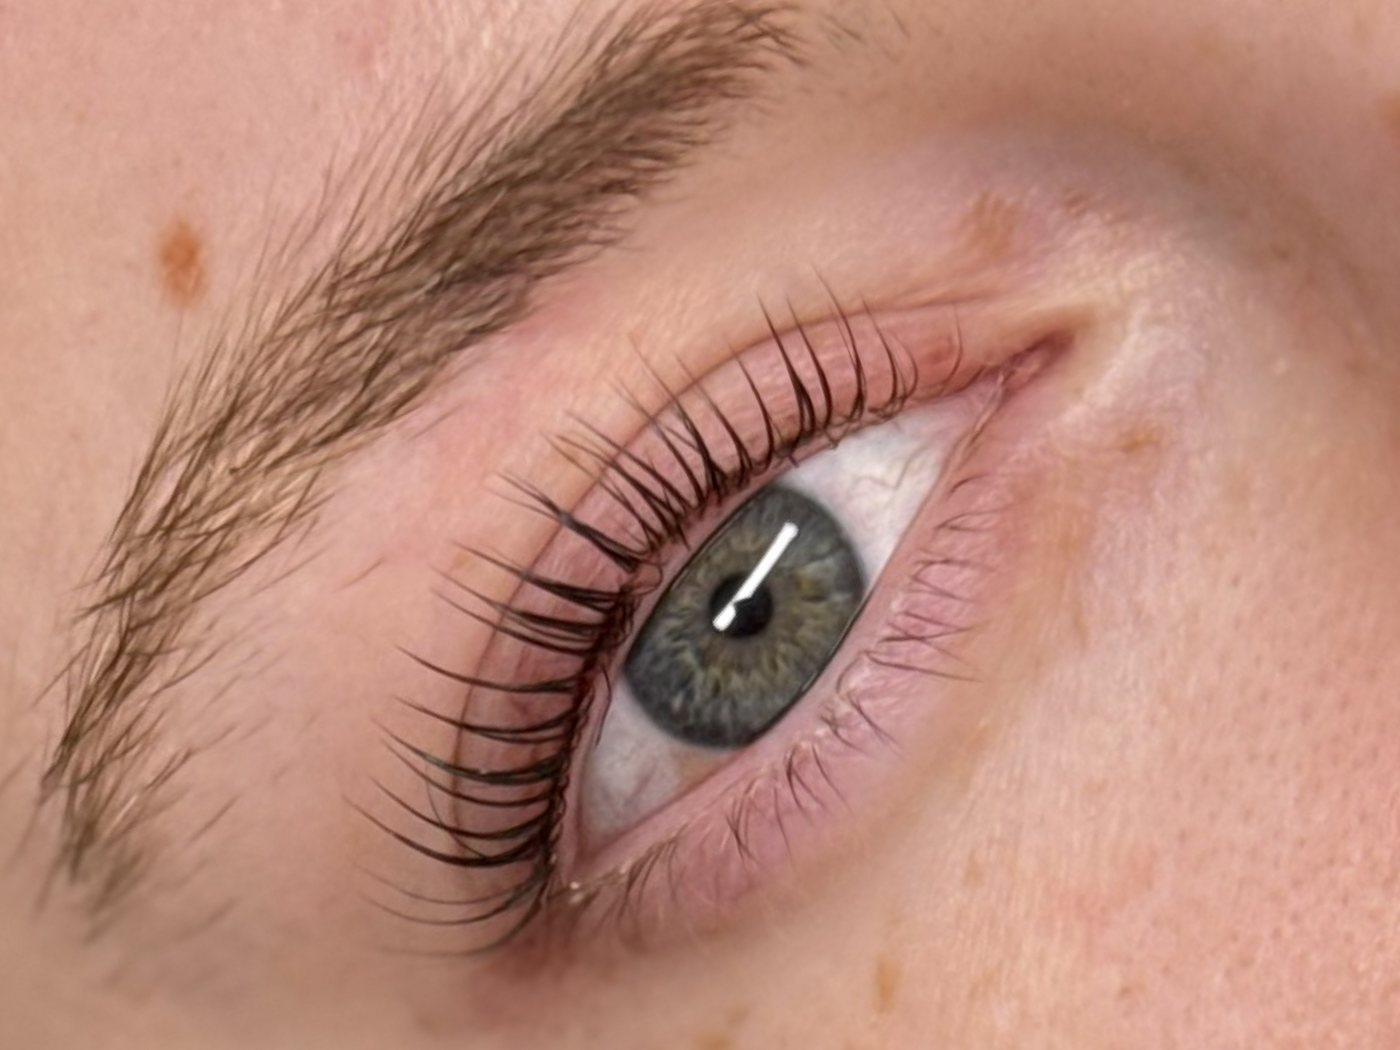
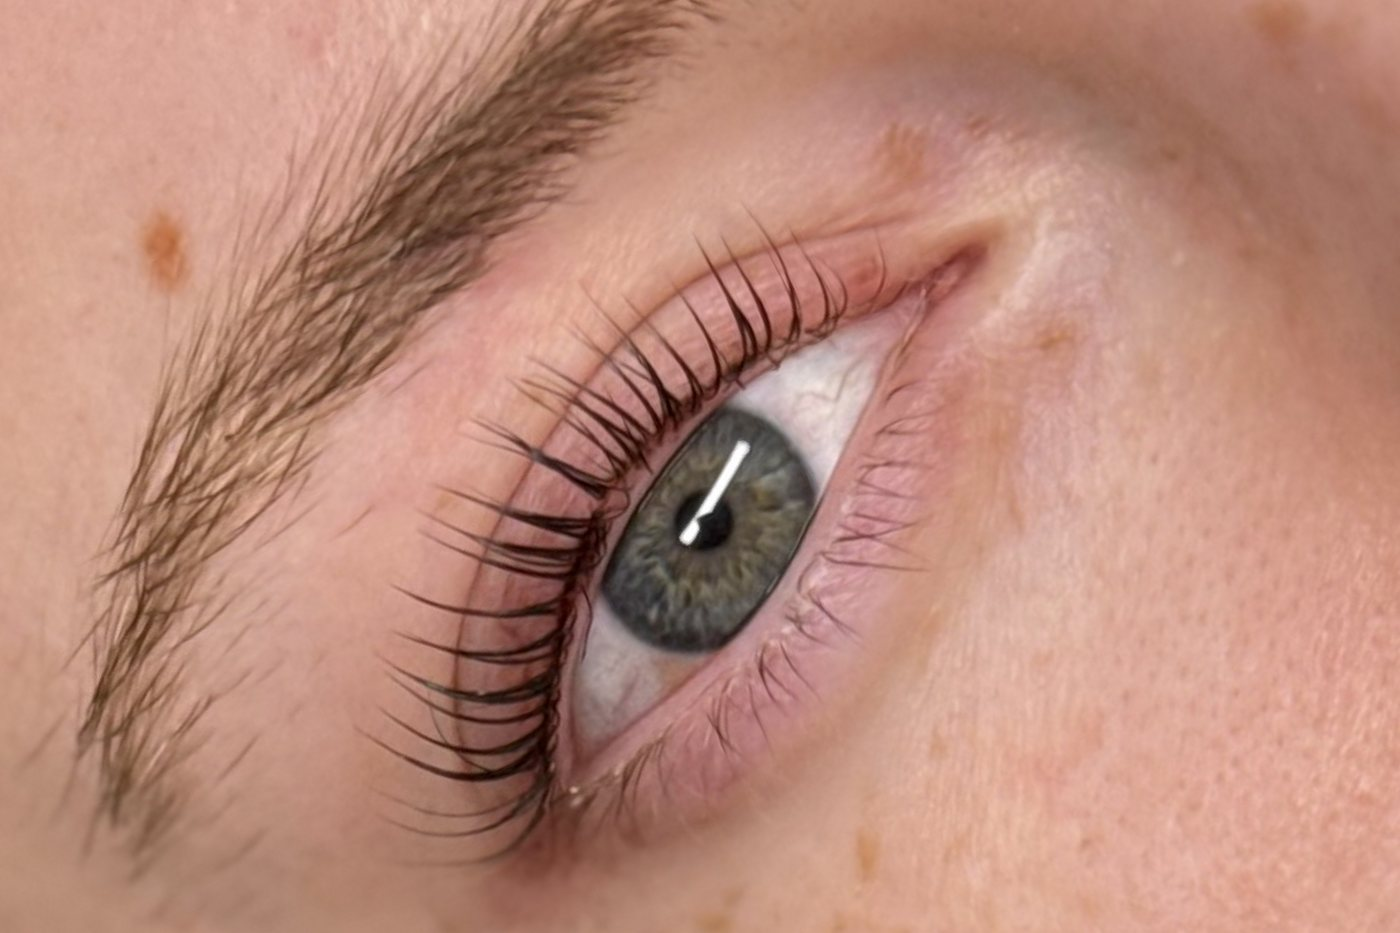
Vis begge øjne i før/efter-slideren
Udsnittet var for tæt og viste kun ét øje. Nu er begge øjne og begge bryn
med, og wipe-linjen går ned gennem ansigtets midte, så man ser den samme
person halvt behandlet. Slideren er skiftet fra 4:3 til 3:2.

Tre ting gjorde det muligt:

- Kilden er nu de to originalfiler i stedet for diptychens halvdele.
  Originalerne er 2268 px brede mod diptychens 1836, og bredden var netop
  det, der satte loft over hvor langt ud der kunne zoomes.
- Ankerpunkterne måles maskinelt med normaliseret krydskorrelation over
  hele billedet i stedet for at blive aflæst i øjemål på et gitter. De
  aflæsninger var 30-40 px forkerte, og hver rettelse flyttede bare
  problemet.
- Udsnittet centreres mellem øjnene, ikke om det ene.

Målingen viste samtidig, at efter-billedet er drejet 5,5° og 3 % større.
Hvert billede får derfor sin egen vinkel og sin egen målestok; brugte man
det ene som facit, kom det andet ansigt ud i en anden størrelse.

To fejl i selve generatoren er rettet med:

- Flytningen af udsnittet blev regnet ud efter det ene billede og brugt på
  det andet, hvilket kunne skubbe dét udenfor kanten og give sorte hjørner.
  Nu findes det fælles råderum som fællesmængden af de to intervaller.
- sample() havde size=SIZE som standardargument, der bindes ved
  definitionen. Ændrede man formatet, tegnede den stadig i det gamle, mens
  udsnittet var regnet ud til det nye.

Par 2 har kun det ene øje med i kilden og forbliver derfor et nærbillede.
[…]

diff --git a/layouts/partials/sections/beforeafter.html b/layouts/partials/sections/beforeafter.html
@@ -15,10 +15,10 @@
     <div class="ba-wrap reveal d1">
       <div class="ba-slider" id="baSlider">
         <img class="ba-img ba-img--before" id="baBefore" src="{{ .before | relURL }}"
-             alt="{{ $ba.beforeLabel }}" width="1400" height="1050" loading="lazy" draggable="false">
+             alt="{{ $ba.beforeLabel }}" width="1400" height="933" loading="lazy" draggable="false">
         <div class="ba-top" id="baTop">
           <img class="ba-img" id="baAfter" src="{{ .after | relURL }}"
-               alt="{{ $ba.afterLabel }}" width="1400" height="1050" loading="lazy" draggable="false">
+               alt="{{ $ba.afterLabel }}" width="1400" height="933" loading="lazy" draggable="false">
         </div>
         <span class="ba-label ba-label--before" aria-hidden="true">{{ $ba.beforeLabel }}</span>
         <span class="ba-label ba-label--after" aria-hidden="true">{{ $ba.afterLabel }}</span>

diff --git a/static/css/style.css b/static/css/style.css
@@ -660,8 +660,8 @@ strong { font-weight: 500; }
 .ba-slider {
   --pos: 50%;
   position: relative;
-  width: min(600px, 100%);
-  aspect-ratio: 4 / 3;
+  width: min(680px, 100%);
+  aspect-ratio: 3 / 2;
   border-radius: var(--radius);
   overflow: hidden;
   box-shadow: var(--shadow);

diff --git a/scripts/beforeafter/make.py b/scripts/beforeafter/make.py
@@ -28,11 +28,18 @@ from PIL import Image
 ROOT = Path(__file__).resolve().parents[2]
 RAW = ROOT / 'ig-posts' / '2026-08-23-fra-wiktoria'
 OUT = ROOT / 'static' / 'img'
-SIZE = (1400, 1050)          # 4:3, ansigtet rettet op med begge øjne
+SIZE = (1400, 933)           # 3:2, ansigtet rettet op med begge øjne
 
 
-def sample(im, cx, cy, w, ang_deg, size=SIZE):
-    """Hent et udsnit på w px bredde, roteret ang_deg, centreret i (cx,cy)."""
+def sample(im, cx, cy, w, ang_deg, size=None):
+    """Hent et udsnit på w px bredde, roteret ang_deg, centreret i (cx,cy).
+
+    size læses ved kaldet, ikke som standardargument: et standardargument
+    bindes ved definitionen, og ændrer man SIZE bagefter, tegner den stadig i
+    det gamle format, mens udsnittet er regnet ud til det nye. Så falder
+    hjørnerne udenfor billedet.
+    """
+    size = size or SIZE
     h = w * size[1] / size[0]
     th = math.radians(ang_deg)
     s = w / size[0]
@@ -45,7 +52,8 @@ def sample(im, cx, cy, w, ang_deg, size=SIZE):
     return im.transform(size, Image.AFFINE, (a, b, c, d, e, f), resample=Image.BICUBIC)
 
 
-def corners_inside(im, cx, cy, w, ang_deg, size=SIZE):
+def corners_inside(im, cx, cy, w, ang_deg, size=None):
+    size = size or SIZE
     h = w * size[1] / size[0]
     th = math.radians(ang_deg)
     ct, st = math.cos(th), math.sin(th)
@@ -58,79 +66,135 @@ def corners_inside(im, cx, cy, w, ang_deg, size=SIZE):
     return True
 
 
-def build(name, shots, zoom, drop=-0.06):
-    """shots = [(fil, akse_p1, akse_p2, centrum), ...] for hhv. før og efter.
+def plan_pair(shots, zoom, drop):
+    """Regn udsnittet ud for et par. Returnerer [(billede, vinkel, bredde, cx, cy)].
 
-    Aksen er to punkter, der ligger vandret i et opret ansigt, fx de to
-    pupiller eller øjets to hjørner. Vinklen mellem dem siger hvor meget
-    billedet skal rettes op, og afstanden bruges som målestok, så zoom
-    betyder det samme uanset hvor tæt på kameraet har været.
+    Udsnittet holdes i den ØNSKEDE størrelse. Kan det ikke ligge inden for
+    billedet, flyttes det i stedet for at blive zoomet ind, og den samme
+    flytning bruges på begge billeder, så motiverne stadig står samme sted i
+    de to rammer.
 
-    Hvert billede rettes op efter SINE EGNE punkter. På par, hvor før og
-    efter er to separate optagelser, har hovedet flyttet sig imellem dem, og
-    ét fælles udsnit ville give en wipe, hvor ansigtet hopper. Normaliserer
-    man hvert billede for sig, lander øjet samme sted i begge.
-
-    Udsnittet centreres om "centrum" (pupillen). Kilderne er høje og smalle,
-    fordi ansigtet ligger på skrå, så et opret udsnit med begge øjne kan
-    ikke ligge inden for billedet. Ét øje i liggende format lader brynet
-    fylde bredden, så wipe-linjen går ned gennem det, man skal se.
+    Flytningen skal passe BEGGE billeder på én gang. Regner man den ud efter
+    det ene og bruger den på det andet, skubber man bare problemet derover;
+    derfor findes det fælles råderum som fællesmængden af de to intervaller,
+    og først når den er tom, zoomes der ud.
     """
-    plan = []
+    base = []
     for path, a1, a2, mid in shots:
         im = Image.open(path)
         ang = math.degrees(math.atan2(a2[1] - a1[1], a2[0] - a1[0]))
         unit = math.dist(a1, a2)
         th = math.radians(ang + 90)
-        cx = mid[0] + unit * drop * math.cos(th)
-        cy = mid[1] + unit * drop * math.sin(th)
-        plan.append([im, ang, unit, cx, cy])
+        base.append([im, ang, unit,
+                     mid[0] + unit * drop * math.cos(th),
+                     mid[1] + unit * drop * math.sin(th)])
 
-    # Fælles zoom målt i akseenheder, så motiverne står lige store.
     z = zoom
-    def ok(z):
-        return all(corners_inside(im, cx, cy, unit * z, ang)
-                   for im, ang, unit, cx, cy in plan)
-    while z > 0.4 and not ok(z):
+    while z > 0.3:
+        lo_x = lo_y = -1e9
+        hi_x = hi_y = 1e9
+        ok = True
+        for im, ang, unit, cx, cy in base:
+            # Bredden skalerer med HVERT billedes egen pupilafstand: kameraet
+            # har ikke stået samme sted i de to optagelser, og bruger man den
+            # ene som facit, kommer det andet ansigt ud i en anden størrelse.
+            w = unit * z
+            h = w * SIZE[1] / SIZE[0]
+            th = math.radians(ang)
+            ex = abs(w/2 * math.cos(th)) + abs(h/2 * math.sin(th))
+            ey = abs(w/2 * math.sin(th)) + abs(h/2 * math.cos(th))
+            if ex > im.width/2 or ey > im.height/2:
+                ok = False
+                break
+            lo_x = max(lo_x, ex - cx);            hi_x = min(hi_x, im.width - ex - cx)
+            lo_y = max(lo_y, ey - cy);            hi_y = min(hi_y, im.height - ey - cy)
+        if ok and lo_x <= hi_x and lo_y <= hi_y:
+            dx = min(max(0.0, lo_x), hi_x)       # flyt så lidt som muligt
+            dy = min(max(0.0, lo_y), hi_y)
+            if abs(dx) > 1 or abs(dy) > 1:
+                print(f'  (udsnittet flyttet {dx:+.0f},{dy:+.0f} px for at blive inden for begge billeder)')
+            if z < zoom:
+                print(f'  (zoom trimmet {zoom:.2f} -> {z:.2f} pupilafstande)')
+            return [(im, ang, unit * z, cx + dx, cy + dy)
+                    for im, ang, unit, cx, cy in base]
         z -= 0.02
-    if z <= 0.4:
-        sys.exit(f'{name}: udsnittet kan ikke ligge inden for billederne')
-    if z < zoom:
-        print(f'  (zoom trimmet {zoom:.2f} -> {z:.2f} akseenheder)')
+    sys.exit('udsnittet kan ikke ligge inden for billederne')
 
-    for tag, (im, ang, unit, cx, cy) in zip(('before', 'after'), plan):
-        out = sample(im, cx, cy, unit * z, ang)
+
+def build(name, shots, zoom, drop=0.0):
+    """shots = [(fil, akse_p1, akse_p2, pupil), ...] for hhv. før og efter.
+
+    Aksen er to punkter, der ligger vandret i et opret ansigt, typisk de to
+    pupiller. Vinklen mellem dem siger hvor meget billedet skal rettes op, og
+    afstanden bruges som målestok, så zoom betyder det samme uanset hvor tæt
+    kameraet har været.
+
+    Pupillen måles i HVERT billede for sig. Selv på en diptych, hvor før og
+    efter er sat sammen på forhånd, har hovedet flyttet sig imellem
+    optagelserne, og ét fælles centrum giver et efter-billede, hvor øjet
+    ligger skævt i rammen.
+
+    zoom = udsnittets bredde målt i pupilafstande.
+    drop = flytter udsnittet ned i ansigtets eget koordinatsystem, også målt
+           i pupilafstande. Negativt = op mod brynet.
+    """
+    for tag, (im, ang, w, cx, cy) in zip(('before', 'after'), plan_pair(shots, zoom, drop)):
+        out = sample(im, cx, cy, w, ang)
         p = OUT / f'ba-{name}-{tag}.jpg'
         out.save(p, 'JPEG', quality=84, optimize=True, progressive=True)
         print(f'  {p.relative_to(ROOT)}  {SIZE[0]}x{SIZE[1]}  {p.stat().st_size//1024} KB')
 
 
+def sheet(shots, options, path):
+    """Kontaktark: samme par ved forskellige udsnit, vist som slideren viser
+    det (halvt før, halvt efter). Til at vælge ud fra i stedet for at gætte."""
+    from PIL import ImageDraw
+    tw, th = 380, 285
+    cols = 2
+    rows = (len(options) + cols - 1) // cols
+    sheet_im = Image.new('RGB', (cols*(tw+16)+16, rows*(th+34)+16), (245, 240, 236))
+    d = ImageDraw.Draw(sheet_im)
+    for i, (zoom, drop, label) in enumerate(options):
+        pair = plan_pair(shots, zoom, drop)
+        imgs = [sample(im, cx, cy, w, ang).resize((tw, th), Image.LANCZOS)
+                for im, ang, w, cx, cy in pair]
+        mix = imgs[0].copy()
+        mix.paste(imgs[1].crop((tw//2, 0, tw, th)), (tw//2, 0))
+        d.line([(tw//2, 0), (tw//2, th)], fill=(255, 255, 255), width=1)
+        x = 16 + (i % cols)*(tw+16)
+        y = 16 + (i // cols)*(th+34)
+        sheet_im.paste(mix, (x, y))
+        d.text((x+4, y+th+8), label, fill=(60, 45, 40))
+    sheet_im.save(path, quality=92)
+    print('kontaktark:', path)
+
+
 if __name__ == '__main__':
     print('Bygger før/efter-par:')
-    # Par 1 (standard): bryn OG vipper. Kilden er én diptych, hvor Wiktoria
-    # selv har sat før og efter side om side, så halvdelene flugter allerede.
-    dip = Image.open(RAW / 'blond-diptych-foer-efter.jpeg')
-    half = dip.width // 2
-    tmp = [ROOT / '.ba-tmp-a.jpg', ROOT / '.ba-tmp-b.jpg']
-    dip.crop((0, 0, half, dip.height)).save(tmp[0], quality=96)
-    dip.crop((half, 0, dip.width, dip.height)).save(tmp[1], quality=96)
-    # Aksen (de to pupiller) sætter rotation og målestok. Centrum måles
-    # derimod i HVER halvdel for sig: hovedet har flyttet sig 130 px til
-    # siden og 220 px ned mellem de to optagelser, og med ét fælles centrum
-    # kom efter-billedets øje til at ligge for langt til venstre i rammen.
-    AXIS = ((770, 2540), (1340, 1290))
-    build('lashes-brows', [
-        (tmp[0], *AXIS, (730, 2510)),      # pupillen i FØR
-        (tmp[1], *AXIS, (860, 2730)),      # pupillen i EFTER
-    ], zoom=0.95)
-    for t in tmp:
-        t.unlink()
 
-    # Par 2: kun vipper. To separate optagelser, hvor hovedet har flyttet sig
-    # ~5° imellem dem, så hver har sine egne punkter. Aksen er øjets to
-    # hjørner, da kun det ene øje er med i billedet.
+    # Ankrene er MASKINMÅLT med normaliseret krydskorrelation, ikke aflæst i
+    # øjemål. Se README-noten nederst i filen for hvordan de findes igen.
+    #
+    # Par 1 (standard): bryn OG vipper, begge øjne med. Kilden er de to
+    # originalfiler, ikke diptychens halvdele: originalerne er 2268 px brede
+    # mod diptychens 1836, og det er dét, der giver plads til begge øjne.
+    FB = ((1310, 2100), (1830, 1030))      # pupiller i FØR
+    FA = ((1374, 2170), (1801, 1023))      # samme to punkter i EFTER
+    mid = lambda a, b: ((a[0]+b[0])//2, (a[1]+b[1])//2)
+    build('lashes-brows', [
+        (RAW / 'blond-foer.jpeg',  *FB, mid(*FB)),
+        (RAW / 'blond-efter.jpeg', *FA, mid(*FA)),
+    ], zoom=1.80, drop=0.10)
+
+    # Par 2: kun vipper. Her er kun det ene øje med i billedet, så aksen er
+    # øjets to kroge og centrum er pupillen. Krydskorrelationen fandt den
+    # indre krog og pupillen forskudt (-85, -184) mellem de to optagelser;
+    # den ydre krog kunne ikke matches, fordi de løftede vipper har ændret
+    # den for meget, så vinklen antages uændret. Centrum er efterprøvet ved
+    # at minimere forskellen i en lodret stribe omkring wipe-linjen; en
+    # søgning over vinkel og skala oveni gav kun 8 % mindre restfejl, så
+    # resten er ægte forskel mellem billederne, ikke skæv justering.
     build('lashes', [
-        # øjets to hjørner som akse, pupillen som centrum
         (RAW / 'rodhaaret-foer.jpeg',  (1290, 1810), (1810, 2050), (1560, 1900)),
-        (RAW / 'rodhaaret-efter.jpeg', (1180, 1650), (1680, 1830), (1440, 1720)),
-    ], zoom=2.6)
+        (RAW / 'rodhaaret-efter.jpeg', (1200, 1628), (1720, 1868), (1475, 1716)),
+    ], zoom=2.00, drop=0.0)
